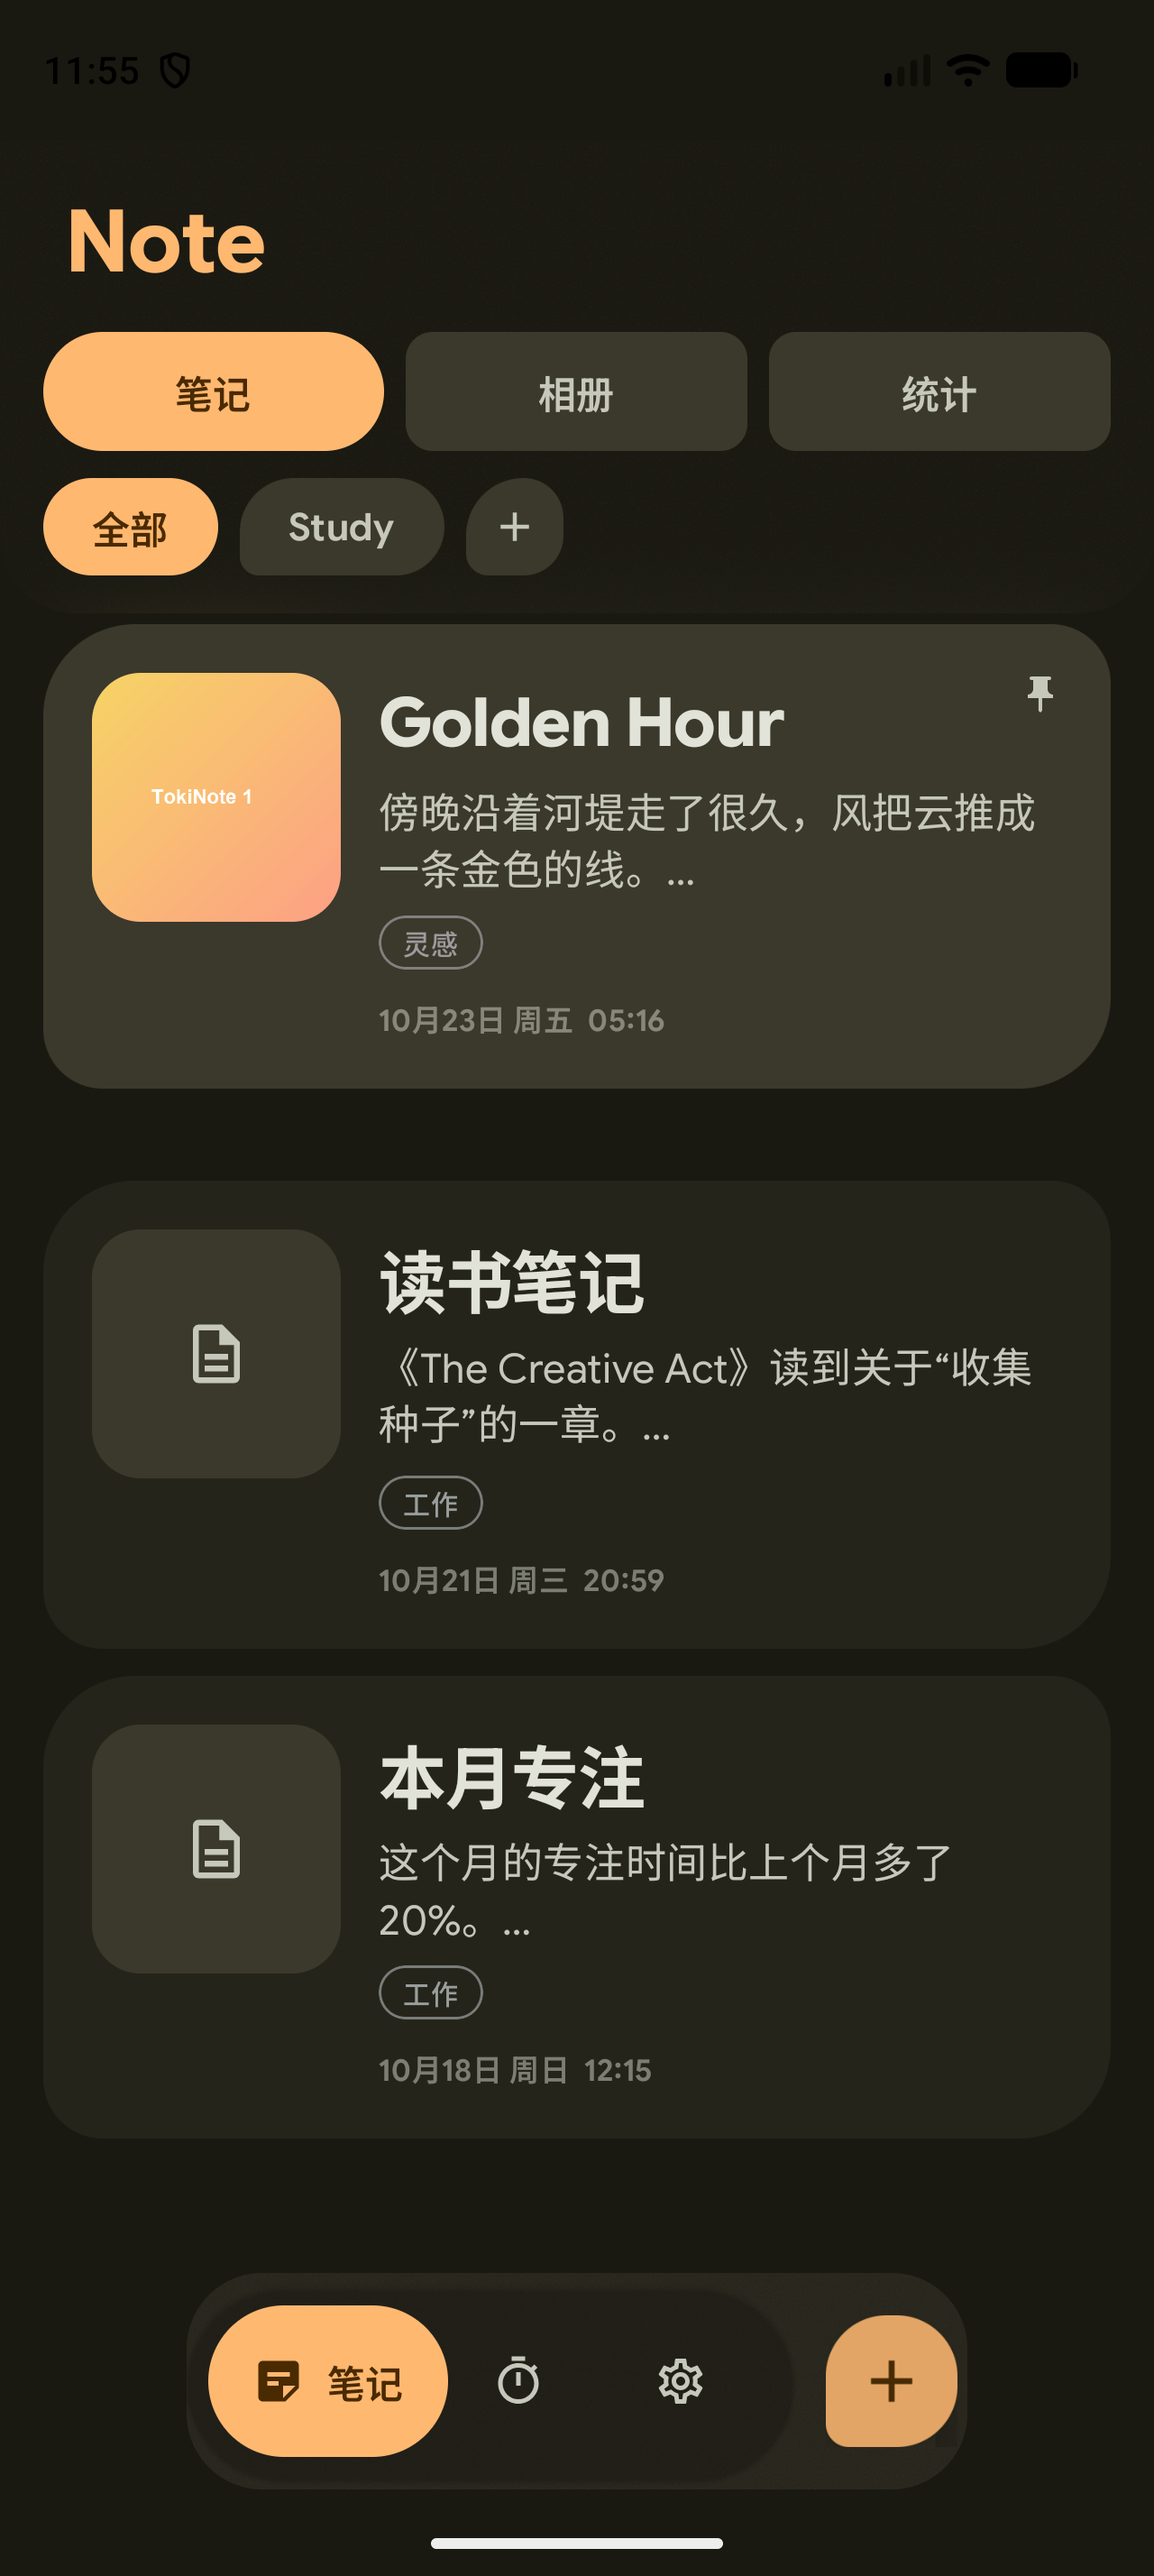
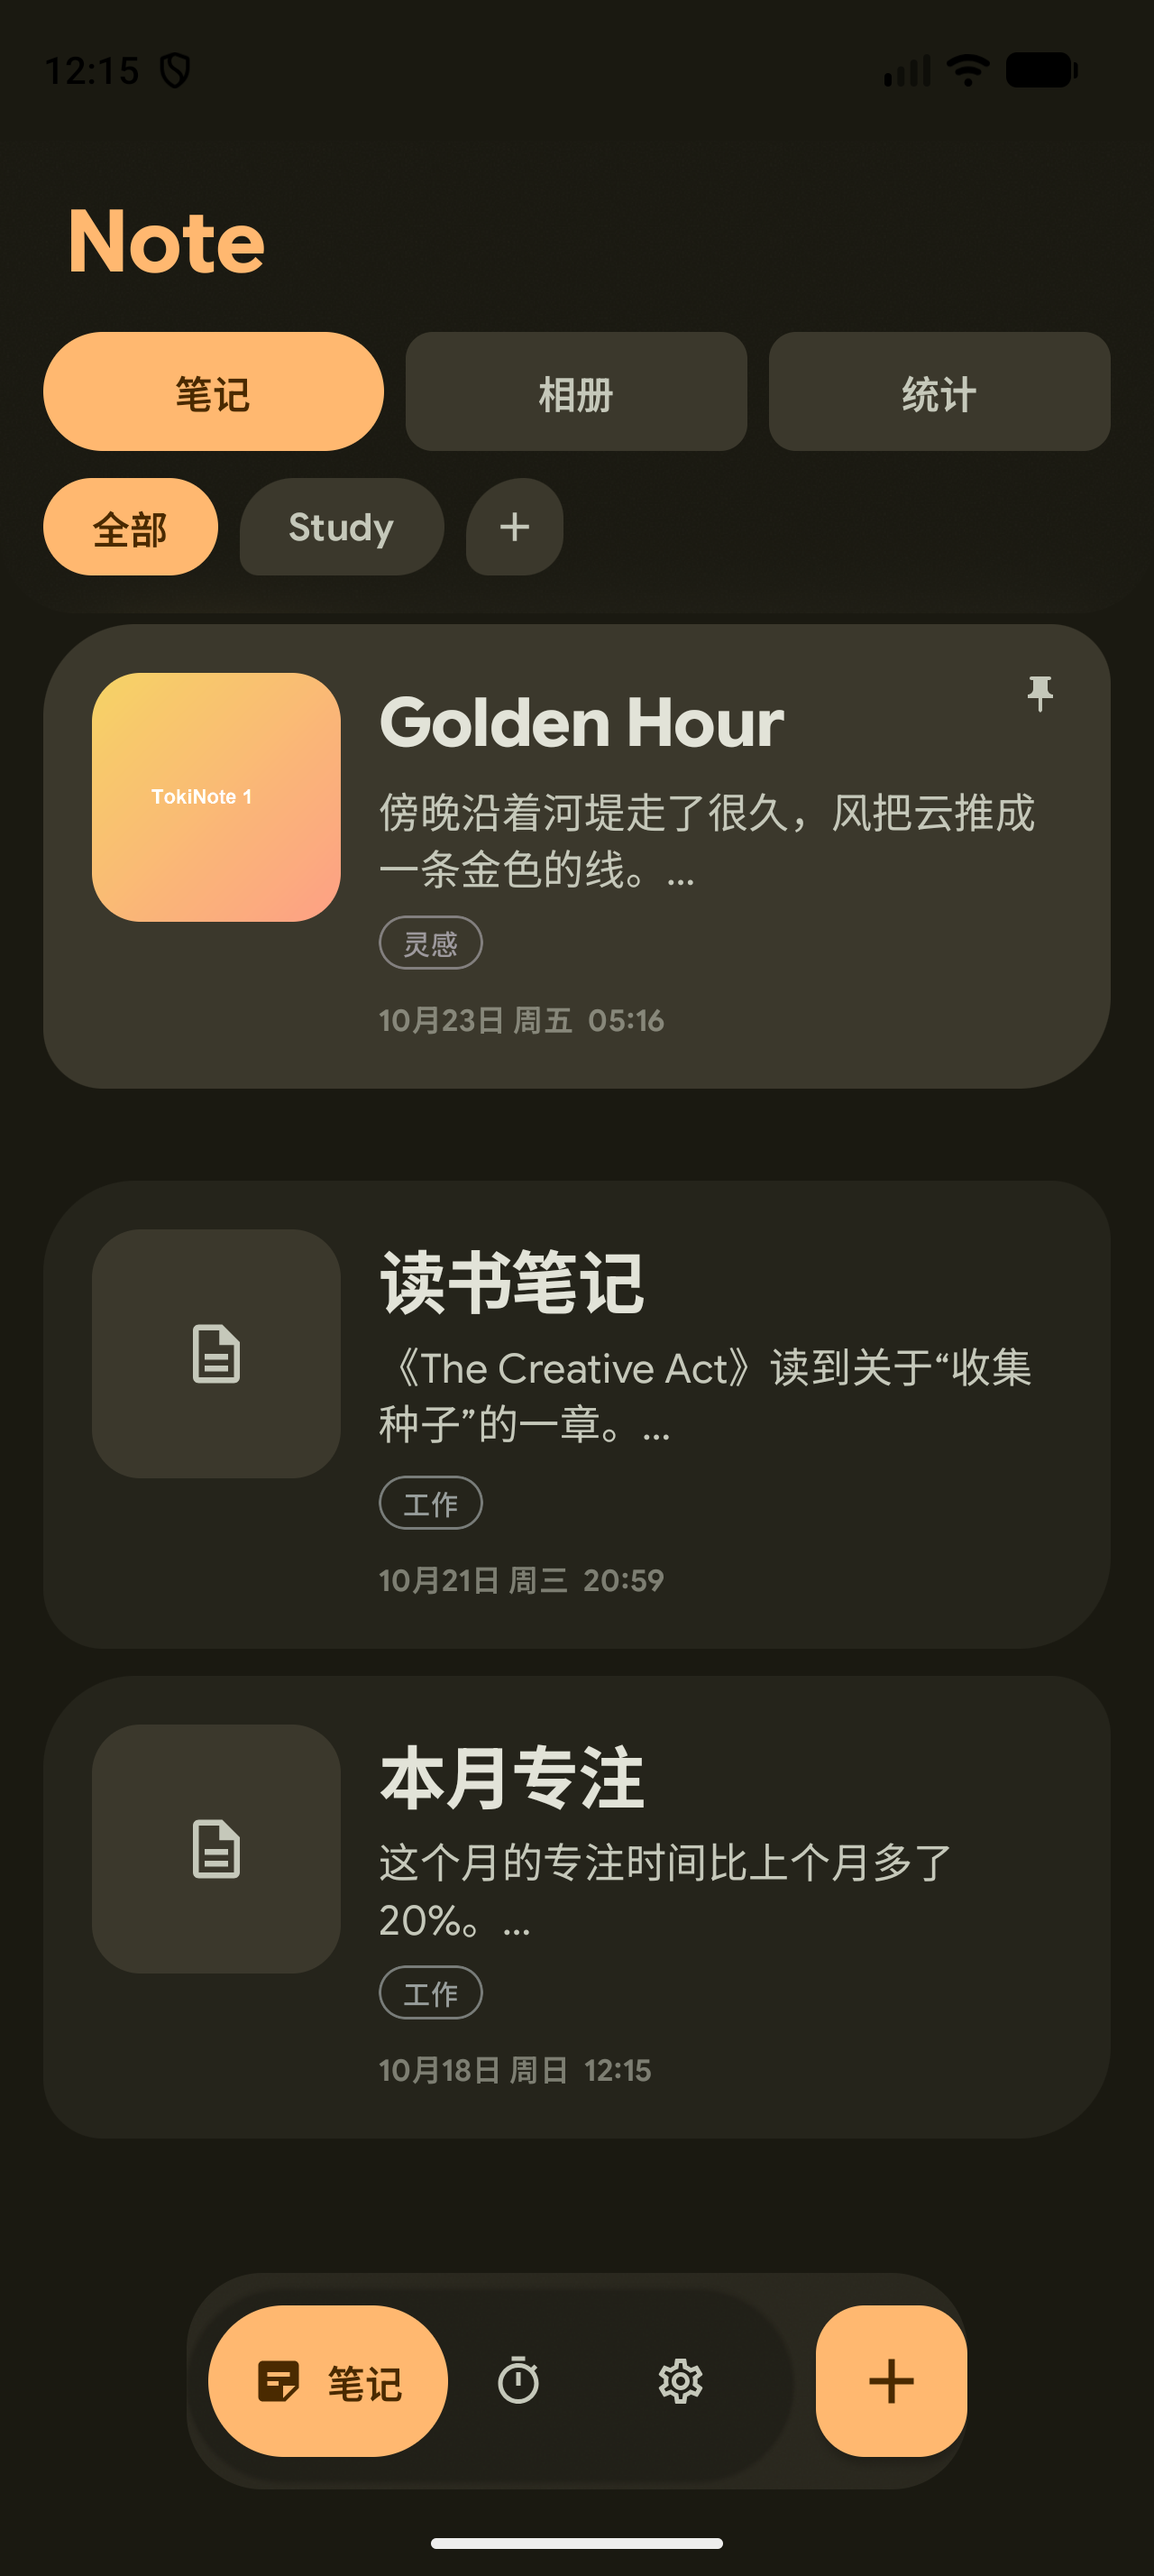
fix: full-height editor body, lighter nav glass, rounded action button

Changed region(s): [[0.6875, 0.8725, 0.8438, 0.966]]

diff --git a/app/src/main/java/com/tokinote/app/ui/notes/JournalEditorScreen.kt b/app/src/main/java/com/tokinote/app/ui/notes/JournalEditorScreen.kt
@@ -19,6 +19,7 @@ import androidx.compose.foundation.clickable
 import androidx.compose.foundation.horizontalScroll
 import androidx.compose.foundation.layout.Arrangement
 import androidx.compose.foundation.layout.Box
+import androidx.compose.foundation.layout.BoxWithConstraints
 import androidx.compose.foundation.layout.Column
 import androidx.compose.foundation.layout.PaddingValues
 import androidx.compose.foundation.layout.Row
@@ -26,6 +27,7 @@ import androidx.compose.foundation.layout.Spacer
 import androidx.compose.foundation.layout.fillMaxSize
 import androidx.compose.foundation.layout.fillMaxWidth
 import androidx.compose.foundation.layout.height
+import androidx.compose.foundation.layout.heightIn
 import androidx.compose.foundation.layout.imePadding
 import androidx.compose.foundation.layout.padding
 import androidx.compose.foundation.layout.size
@@ -233,18 +235,28 @@ fun JournalEditorScreen(
             }
         }
 
-        Column(
-            modifier = Modifier
-                .weight(1f)
-                .verticalScroll(rememberScrollState())
-                .padding(horizontal = 22.dp),
-        ) {
+        BoxWithConstraints(modifier = Modifier.weight(1f)) {
+            val compact = maxHeight < 560.dp
+            val bannerHeight by androidx.compose.animation.core.animateDpAsState(
+                targetValue = if (compact) 96.dp else 156.dp,
+                animationSpec = tween(TokiMotion.standard),
+                label = "editorBannerHeight",
+            )
+            val headerMax = (maxHeight - 130.dp).coerceAtLeast(160.dp)
+            Column(modifier = Modifier.fillMaxSize()) {
+                Column(
+                    modifier = Modifier
+                        .fillMaxWidth()
+                        .heightIn(max = headerMax)
+                        .verticalScroll(rememberScrollState())
+                        .padding(horizontal = 22.dp),
+                ) {
             if (note.media.isNotEmpty()) {
                 val hero = rememberImage(note.media.first())
                 Box(
                     modifier = Modifier
                         .fillMaxWidth()
-                        .height(156.dp)
+                        .height(bannerHeight)
                         .clip(RoundedCornerShape(30.dp))
                         .background(MaterialTheme.colorScheme.surfaceContainerHigh)
                         .clickable { onOpenMedia(note.media, 0) },
@@ -376,32 +388,37 @@ fun JournalEditorScreen(
                 }
             }
 
-            Spacer(Modifier.height(14.dp))
-            BasicTextField(
-                value = note.body,
-                onValueChange = { onChange(note.copy(body = it)) },
-                textStyle = MaterialTheme.typography.bodyLarge.copy(
-                    fontSize = (17 * note.bodySize.scale).sp,
-                    lineHeight = (27 * note.bodySize.scale).sp,
-                    fontWeight = note.bodyWeight.toFontWeight(),
-                    color = MaterialTheme.colorScheme.onSurface,
-                ),
-                cursorBrush = SolidColor(MaterialTheme.colorScheme.primary),
-                modifier = Modifier
-                    .fillMaxWidth()
-                    .height(280.dp),
-                decorationBox = { inner ->
-                    if (note.body.isEmpty()) {
-                        Text(
-                            text = stringResource(R.string.editor_hint),
-                            style = MaterialTheme.typography.bodyLarge.copy(fontSize = (17 * note.bodySize.scale).sp),
-                            color = MaterialTheme.colorScheme.onSurfaceVariant.copy(alpha = 0.5f),
-                        )
-                    }
-                    inner()
-                },
-            )
-            Spacer(Modifier.height(32.dp))
+                    Spacer(Modifier.height(10.dp))
+                }
+
+                BasicTextField(
+                    value = note.body,
+                    onValueChange = { onChange(note.copy(body = it)) },
+                    textStyle = MaterialTheme.typography.bodyLarge.copy(
+                        fontSize = (17 * note.bodySize.scale).sp,
+                        lineHeight = (27 * note.bodySize.scale).sp,
+                        fontWeight = note.bodyWeight.toFontWeight(),
+                        color = MaterialTheme.colorScheme.onSurface,
+                    ),
+                    cursorBrush = SolidColor(accent),
+                    modifier = Modifier
+                        .fillMaxWidth()
+                        .weight(1f)
+                        .padding(horizontal = 22.dp),
+                    decorationBox = { inner ->
+                        if (note.body.isEmpty()) {
+                            Text(
+                                text = stringResource(R.string.editor_hint),
+                                style = MaterialTheme.typography.bodyLarge.copy(
+                                    fontSize = (17 * note.bodySize.scale).sp,
+                                ),
+                                color = MaterialTheme.colorScheme.onSurfaceVariant.copy(alpha = 0.5f),
+                            )
+                        }
+                        inner()
+                    },
+                )
+            }
         }
 
         Row(

diff --git a/app/src/main/java/com/tokinote/app/ui/components/FloatingNavBar.kt b/app/src/main/java/com/tokinote/app/ui/components/FloatingNavBar.kt
@@ -37,7 +37,6 @@ import androidx.compose.ui.unit.dp
 import com.tokinote.app.R
 import com.tokinote.app.ui.Dest
 import com.tokinote.app.ui.pressScale
-import com.tokinote.app.ui.theme.ExpressiveFabShape
 
 private data class NavEntry(
     val dest: Dest,
@@ -152,20 +151,20 @@ fun NavActionButton(
             haptic.performHapticFeedback(HapticFeedbackType.LongPress)
             onClick()
         },
-        shape = ExpressiveFabShape,
+        shape = RoundedCornerShape(18.dp),
         color = MaterialTheme.colorScheme.primary,
         contentColor = MaterialTheme.colorScheme.onPrimary,
-        shadowElevation = 8.dp,
+        shadowElevation = 2.dp,
         interactionSource = interaction,
         modifier = Modifier
-            .size(68.dp)
+            .size(64.dp)
             .pressScale(interaction, pressedScale = 0.9f),
     ) {
         Box(Modifier.fillMaxSize(), contentAlignment = Alignment.Center) {
             Icon(
                 imageVector = icon,
                 contentDescription = contentDescription,
-                modifier = Modifier.size(30.dp),
+                modifier = Modifier.size(28.dp),
             )
         }
     }

diff --git a/app/src/main/java/com/tokinote/app/ui/TokiNoteApp.kt b/app/src/main/java/com/tokinote/app/ui/TokiNoteApp.kt
@@ -74,12 +74,12 @@ fun TokiNoteApp(viewModel: AppViewModel) {
     val focusViewModel: FocusViewModel = viewModel()
     val focusState by focusViewModel.state.collectAsStateWithLifecycle()
     val hazeState = rememberHazeState()
-    val navTint = MaterialTheme.colorScheme.surfaceContainer.copy(alpha = 0.72f)
+    val navTint = MaterialTheme.colorScheme.surfaceContainer.copy(alpha = 0.82f)
     val glass = Modifier.hazeBlur(
         input = HazeInput.Sources(hazeState),
         style = HazeBlurStyle {
-            blurRadius(24.dp)
-            noiseFactor(0.08f)
+            blurRadius(14.dp)
+            noiseFactor(0.05f)
             colorEffects(listOf(HazeColorEffect.tint(navTint)))
             fallbackColorEffect(HazeColorEffect.tint(navTint))
         },

diff --git a/HANDOFF.md b/HANDOFF.md
@@ -50,7 +50,7 @@
 - Expressive 外形（0.2.8）：卡片 / 分组 / FAB 用不对称圆角；标题加大加粗、时间与标签缩小降噪、卡片 padding 加宽；首页标签改细描边；FAB 用高饱和主色
 - 毛玻璃（0.2.8）：笔记页顶栏 + 分组条 + 悬浮底栏用 Haze 做真实背景模糊；列表/日历从顶栏下方滚过，`headerHeight` 用 px→dp 测量后作为 LazyColumn 的 `topInset`
 - 长按预览（0.2.8）：从卡片 `boundsInRoot` 到屏幕中央目标 bounds 做共享式膨胀，Emphasized easing、背景压暗、底栏自动收起；见 `NotePreviewOverlay.kt`
-- 编辑页（0.2.8）：首图取色（`NotePalette`）驱动背景 / 标题 / 保存按钮 / 工具岛；图片横幅 156dp；底部悬浮工具岛默认只显示 +，弹性展开四个工具；顶部更多打开笔记信息面板（创建/编辑时间、标签、归档/删除）
+- 编辑页（0.2.8）：首图取色（`NotePalette`）驱动背景 / 标题 / 保存按钮 / 工具岛；图片横幅 156dp（键盘弹出时 96dp）；底部悬浮工具岛默认只显示 +，弹性展开四个工具；顶部更多打开笔记信息面板（创建/编辑时间、标签、归档/删除）；正文输入区铺满剩余高度，空白可聚焦，长文内部滚动
 - 标签底色（0.2.8）：首页卡片显示描边标签胶囊；编辑页标签面板选中项使用 8 色 `LabelTints`，随深浅色和当前主色轻微调和
 - 相册：三列网格 + 全屏查看器（缩放、下载、定位、信息）
 - 专注：波浪环、主按钮长胶囊 + 圆形重置 + 窄药丸辅助键、垂直居中、长按/双击进入不定时正向计时（0.2.7 修复手势与 00:00 起计）
@@ -79,4 +79,6 @@
 - **毛玻璃不要叠层**：底栏/顶栏容器保持透明，tint 放进 `HazeBlurStyle` 的 `colorEffects` / `fallbackColorEffect`，让模糊本身就是背景；不要再额外加 `surface.copy(alpha=…)` 的 Surface 或 `.background()`，否则会变成两层
 - **长按预览**：source bounds 用 `onGloballyPositioned { boundsInRoot() }`，目标 bounds 也要在 `onGloballyPositioned` 里量；缩放用等比，避免 scaleX/scaleY 独立导致文字挤压；预览打开时通过回调让 TokiNoteApp 收起底栏
 - **编辑页取色**：`BitmapFactory` 用 `inSampleSize = 8` 只采样 48×48 网格，避免主线程解码大图；主题色、工具岛、标题分别用 `animateColorAsState` 过渡
+- **正文铺满**：`BoxWithConstraints` 里 header 用 `heightIn(max = maxHeight - 130.dp)` + 独立滚动，正文 `weight(1f)` 占满剩余；不要给正文固定 `height(280.dp)`，否则空白区点不到。键盘弹出时用 `maxHeight < 560.dp` 把横幅收成 96dp
+- **底栏减重**：模糊半径 14dp、tint alpha 0.82；独立按钮 18dp 圆角矩形，不要再套第二层 Surface
 - 提交信息里的 7 位短哈希（如 `7b0e0c3`）是 git commit SHA，提交时自动生成，不需要手写备注

diff --git a/README.md b/README.md
@@ -18,7 +18,7 @@
 ## 笔记
 
 - 顶部左对齐「Note」，点按展开搜索；结果按「标题 / 正文」统计后再按日期分组
-- 顶栏与分组条使用毛玻璃：列表 / 日历 / 搜索结果从下方滚过时会真实模糊背后内容
+- 顶栏与分组条使用毛玻璃；底栏是轻量玻璃 + 小圆角矩形按钮：列表 / 日历 / 搜索结果从下方滚过时会真实模糊背后内容
 - Expressive 外形：不对称圆角卡片、加粗大标题、细描边的彩色标签、不对称 FAB 与分组胶囊
 - 分类页签：**笔记 / 相册 / 统计**
 - 首页分组：Tab 下方「全部 / 分组 / +」，`+` 输入名称并多选笔记建组；长按分组可改名、增删笔记或删除
@@ -29,8 +29,8 @@
   - 双指缩放、双击放大
   - 底部悬浮操作条：保存到系统相册 / 查看原笔记 / 图片信息（大小、时间、路径）
 - 日历页：月视图，有日记的日子显示当天 emoji，选中日直接列出当天日记
-- 编辑器：首图提取主色，驱动背景 / 标题 / 保存按钮 / 底部工具岛；图片横幅 + 大标题留白；
-  底部是默认收起、点击后弹性展开的悬浮工具岛；顶部「更多」打开笔记信息面板（创建 / 编辑时间、标签、归档 / 删除）
+- 编辑器：首图提取主色，驱动背景 / 标题 / 保存按钮 / 底部工具岛；正文输入区铺满剩余高度，点空白即可聚焦，长文内部滚动；
+  图片横幅 + 大标题留白；底部是默认收起、点击后弹性展开的悬浮工具岛；顶部「更多」打开笔记信息面板（创建 / 编辑时间、标签、归档 / 删除）
 
 ## 专注
 

diff --git a/.github/release-notes/0.2.8.md b/.github/release-notes/0.2.8.md
@@ -26,6 +26,12 @@
 
 顶部层级丨取消与更多改为纯图标，保存变成高饱和圆形按钮；更多里打开笔记信息面板，展示创建时间、最后编辑、标签，并提供归档与删除。
 
-## V. 版本
+## V. 修复
+
+正文铺满丨编辑页正文输入区占据顶栏与工具岛之间的全部高度；点击下方空白会自动聚焦到文末并唤起键盘，长文在输入框内正常滚动。键盘弹出时图片横幅自动收起为紧凑高度。
+
+底栏减重丨底栏模糊半径减小、玻璃底色更实，减少厚重感；右上角独立按钮从小圆角矩形改为 18dp 圆角矩形，不再使用不规则 FAB 造型。
+
+## VI. 版本
 
 版本丨0.2.8，versionCode 6。
